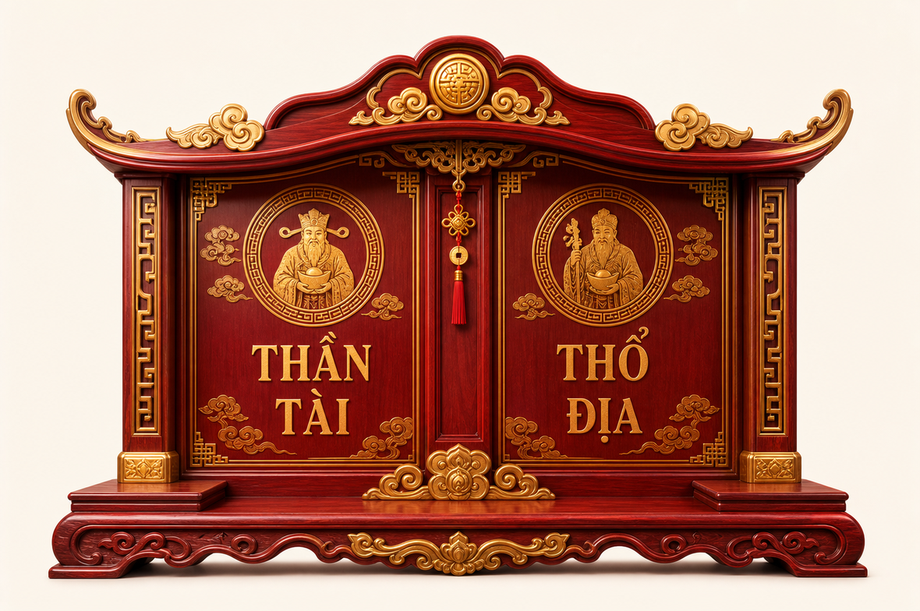
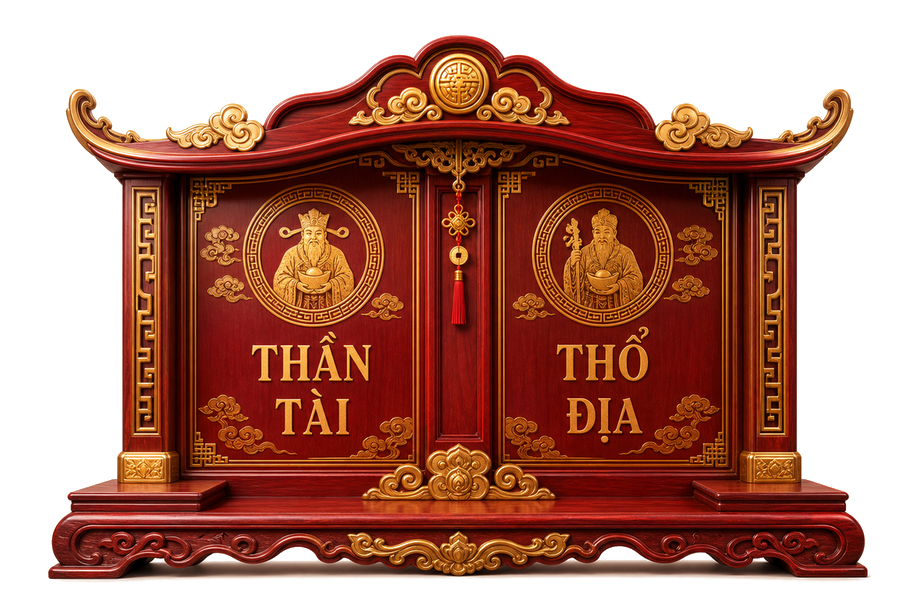
Improve incense altar and offerings flow

Changed region(s): [[0.0609, 0.9018, 0.9739, 0.964]]

diff --git a/assets/css/app.css b/assets/css/app.css
@@ -3995,7 +3995,7 @@ body[data-page="products"] .view.active {
 
 .incense-panel {
   display: grid;
-  grid-template-rows: minmax(170px, 0.8fr) auto;
+  grid-template-rows: auto auto;
   min-height: 0;
   overflow: hidden;
 }
@@ -4018,9 +4018,9 @@ body[data-page="products"] .view.active {
 .incense-altar {
   position: absolute;
   left: 50%;
-  top: 10px;
+  top: 8px;
   z-index: 0;
-  width: min(300px, 70%);
+  width: min(270px, 68%);
   height: auto;
   opacity: 0.9;
   border-radius: 18px;
@@ -4045,8 +4045,8 @@ body[data-page="products"] .view.active {
 .incense-bowl {
   position: relative;
   z-index: 5;
-  width: 94px;
-  height: 38px;
+  width: 68px;
+  height: 34px;
   background: linear-gradient(180deg, #ef4444, #991b1b);
   border: 1px solid rgba(127, 29, 29, 0.32);
   border-radius: 14px 14px 38px 38px;
@@ -4104,7 +4104,7 @@ body[data-page="products"] .view.active {
 .incense-sticks {
   position: absolute;
   z-index: 4;
-  bottom: 50px;
+  bottom: 46px;
   left: 50%;
   display: flex;
   gap: 5px;
@@ -4114,7 +4114,7 @@ body[data-page="products"] .view.active {
 .incense-sticks i {
   display: block;
   width: 3px;
-  height: 78px;
+  height: 72px;
   background: linear-gradient(180deg, #facc15 0 12px, #7c2d12 12px);
   border-radius: 99px;
   box-shadow: 0 0 0 rgba(251, 191, 36, 0);
@@ -4133,7 +4133,7 @@ body[data-page="products"] .view.active {
 .incense-smoke {
   position: absolute;
   z-index: 3;
-  bottom: 120px;
+  bottom: 112px;
   left: 50%;
   width: 62px;
   height: 118px;
@@ -4170,7 +4170,7 @@ body[data-page="products"] .view.active {
 .incense-spark {
   position: absolute;
   z-index: 6;
-  bottom: 120px;
+  bottom: 112px;
   left: 50%;
   width: 7px;
   height: 7px;
@@ -4229,6 +4229,57 @@ body[data-page="products"] .view.active {
 @keyframes monkeySwing {
   0%, 100% { transform: rotate(-17deg) translateY(0); }
   50% { transform: rotate(18deg) translateY(5px); }
+}
+
+.offering-tray {
+  position: absolute;
+  left: 50%;
+  bottom: 10px;
+  z-index: 6;
+  display: flex;
+  align-items: end;
+  justify-content: center;
+  gap: 5px;
+  width: min(220px, 68%);
+  min-height: 42px;
+  pointer-events: none;
+  opacity: 0;
+  transform: translate(-50%, 18px) scale(0.92);
+}
+
+.offering-tray.is-offered {
+  opacity: 1;
+  animation: offeringTrayIn 720ms cubic-bezier(.2, .8, .2, 1) both;
+}
+
+.offering-item {
+  display: grid;
+  place-items: center;
+  min-width: 42px;
+  min-height: 28px;
+  padding: 4px 7px;
+  color: #7c2d12;
+  font-size: 10px;
+  font-weight: 900;
+  line-height: 1.05;
+  text-align: center;
+  background: linear-gradient(180deg, #fff7ed, #fed7aa);
+  border: 1px solid rgba(180, 83, 9, 0.24);
+  border-radius: 999px 999px 12px 12px;
+  box-shadow: 0 8px 16px rgba(127, 29, 29, 0.14);
+  animation: offeringItemFloat 2.8s ease-in-out infinite;
+}
+
+.offering-item:nth-child(2) {
+  animation-delay: 0.25s;
+}
+
+.offering-item:nth-child(3) {
+  animation-delay: 0.5s;
+}
+
+.offering-item:nth-child(4) {
+  animation-delay: 0.75s;
 }
 
 @keyframes monkeyClimb {
@@ -4305,9 +4356,36 @@ body[data-page="products"] .view.active {
   }
 }
 
+@keyframes offeringTrayIn {
+  0% {
+    opacity: 0;
+    transform: translate(-50%, 28px) scale(0.82);
+  }
+
+  58% {
+    opacity: 1;
+    transform: translate(-50%, -4px) scale(1.04);
+  }
+
+  100% {
+    opacity: 1;
+    transform: translate(-50%, 0) scale(1);
+  }
+}
+
+@keyframes offeringItemFloat {
+  0%, 100% {
+    transform: translateY(0);
+  }
+
+  50% {
+    transform: translateY(-2px);
+  }
+}
+
 .incense-form {
   display: grid;
-  gap: 14px;
+  gap: 12px;
   padding: 18px;
 }
 
@@ -4351,6 +4429,38 @@ body[data-page="products"] .view.active {
   animation: incenseChoice 220ms ease-out;
 }
 
+.incense-offerings {
+  display: flex;
+  flex-wrap: wrap;
+  gap: 8px;
+  padding-bottom: 2px;
+}
+
+.incense-offerings button {
+  flex: 1 1 70px;
+  min-height: 36px;
+  padding: 0 10px;
+  color: var(--muted);
+  font: inherit;
+  font-weight: 800;
+  background: #f8fafc;
+  border: 1px solid var(--line);
+  border-radius: 999px;
+  cursor: pointer;
+  transition: transform 160ms ease, border-color 160ms ease, background 160ms ease, color 160ms ease;
+}
+
+.incense-offerings button:hover {
+  transform: translateY(-1px);
+  border-color: #fed7aa;
+}
+
+.incense-offerings button.active {
+  color: #9a3412;
+  background: #fff7ed;
+  border-color: #fdba74;
+}
+
 @keyframes incenseChoice {
   0% {
     transform: scale(0.97);
@@ -4372,6 +4482,8 @@ body[data-page="products"] .view.active {
   .incense-sticks i,
   .incense-smoke,
   .incense-spark,
+  .offering-tray.is-offered,
+  .offering-item,
   .incense-panel.just-lit .incense-scene::after,
   .incense-kind-grid button.active {
     animation: none;
@@ -6013,22 +6125,22 @@ body[data-page="orderCreate"] .summary-total strong {
   }
 
   .incense-scene {
-    min-height: 190px;
+    min-height: 186px;
     border-right: 0;
     border-bottom: 1px solid var(--line);
   }
 
   .incense-altar {
     top: 12px;
-    width: min(250px, 78%);
+    width: min(238px, 74%);
   }
 
   .incense-sticks {
-    bottom: 46px;
+    bottom: 44px;
   }
 
   .incense-sticks i {
-    height: 62px;
+    height: 58px;
   }
 
   .monkey {
@@ -6060,10 +6172,21 @@ body[data-page="orderCreate"] .summary-total strong {
   }
 
   .incense-smoke {
-    bottom: 102px;
+    bottom: 98px;
     width: 54px;
     height: 100px;
     border-left-width: 4px;
+  }
+
+  .offering-tray {
+    bottom: 8px;
+    width: min(210px, 76%);
+  }
+
+  .offering-item {
+    min-width: 38px;
+    min-height: 26px;
+    font-size: 9px;
   }
 
   .incense-kind-grid {
@@ -6072,6 +6195,12 @@ body[data-page="orderCreate"] .summary-total strong {
 
   .incense-kind-grid button {
     min-height: 46px;
+  }
+
+  .incense-offerings button {
+    flex-basis: 92px;
+    min-height: 34px;
+    padding-inline: 10px;
   }
 
   .incense-input-row {

diff --git a/assets/js/app.js b/assets/js/app.js
@@ -181,6 +181,8 @@
     teamPanelNote: qs("[data-team-panel-note]"),
     incenseForm: qs("[data-incense-form]"),
     incenseKind: qs("[data-incense-kind]"),
+    incenseOfferings: qs("[data-incense-offerings]"),
+    offeringTray: qs("[data-offering-tray]"),
     incenseWish: qs("[data-incense-wish]"),
     incenseHistory: qs("[data-incense-history]"),
     incenseResult: qs("[data-incense-result]"),
@@ -905,6 +907,9 @@
       actorId: item.actorId || "",
       actorName: item.actorName || "",
       actorEmail: item.actorEmail || "",
+      offerings: Array.isArray(item.offerings)
+        ? item.offerings
+        : String(item.offerings || "").split(",").map(value => value.trim()).filter(Boolean),
       createdAt: item.createdAt || ""
     };
   }
@@ -3399,6 +3404,36 @@
     team: ["Team", "Xin cả team nhẹ đầu."]
   };
 
+  const incenseOfferings = {
+    banana: "Chuối",
+    fruit: "Trái cây",
+    cake: "Bánh chay",
+    tea: "Trà",
+    water: "Nước",
+    flower: "Hoa"
+  };
+
+  function selectedIncenseOfferings() {
+    const selected = Array.from(document.querySelectorAll("[data-offering-choice].active"))
+      .map(button => button.dataset.offeringChoice)
+      .filter(key => Object.prototype.hasOwnProperty.call(incenseOfferings, key));
+    return selected.length ? selected : ["banana"];
+  }
+
+  function syncIncenseOfferings() {
+    if (els.incenseOfferings) {
+      els.incenseOfferings.value = selectedIncenseOfferings().join(",");
+    }
+  }
+
+  function renderOfferingTray(items) {
+    if (!els.offeringTray) return;
+    const selected = (items && items.length ? items : selectedIncenseOfferings()).slice(0, 4);
+    els.offeringTray.innerHTML = selected.map(key => `<span class="offering-item offering-${escapeAttribute(key)}">${escapeHtml(incenseOfferings[key] || key)}</span>`).join("");
+    els.offeringTray.classList.remove("is-offered");
+    window.requestAnimationFrame(() => els.offeringTray.classList.add("is-offered"));
+  }
+
   function renderIncense() {
     if (!els.incenseHistory) return;
     const wishes = (state.incenseWishes || []).map(normalizeIncenseWish)
@@ -3417,12 +3452,13 @@
     const button = form.querySelector("button[type='submit']");
     const data = Object.fromEntries(new FormData(form));
     const wish = String(data.wish || "").trim();
+    const offerings = selectedIncenseOfferings();
     if (!wish) throw new Error("Nhập một câu ngắn thôi nha.");
     setBusy(button, true, "Đang thắp...");
     try {
       const response = await apiRequest("/incense/create", {
         method: "POST",
-        body: JSON.stringify({ kind: data.kind || "sales", wish })
+        body: JSON.stringify({ kind: data.kind || "sales", wish, offerings })
       });
       state.incenseWishes = (response.incenseWishes || [response.incenseWish]).filter(Boolean).map(normalizeIncenseWish);
       window.ArtFlowPosStore.save(state);
@@ -3437,6 +3473,7 @@
         window.requestAnimationFrame(() => panel.classList.add("just-lit"));
         window.setTimeout(() => panel.classList.remove("just-lit"), 950);
       }
+      renderOfferingTray(offerings);
       renderIncense();
       showToast("Đã thắp một nén nhỏ.");
     } finally {
@@ -7276,6 +7313,13 @@
           const info = incenseKinds[kind] || incenseKinds.sales;
           els.incenseResult.textContent = info[1];
         }
+      }
+      if (target.matches("[data-offering-choice]")) {
+        target.classList.toggle("active");
+        if (!document.querySelector("[data-offering-choice].active")) {
+          target.classList.add("active");
+        }
+        syncIncenseOfferings();
       }
       if (target.matches("[data-reset-product-filters]")) {
         Object.assign(productFilters, { category: "all", status: "all", stock: "all", margin: "all", content: "all", assets: "all", sort: "name", preset: "all" });

diff --git a/pages/incense.html b/pages/incense.html
@@ -39,6 +39,7 @@
             <span class="incense-spark spark-two"></span>
             <span class="incense-spark spark-three"></span>
             <div class="incense-sticks"><i></i><i></i><i></i></div>
+            <div class="offering-tray" data-offering-tray></div>
             <div class="monkey-troupe">
               <img class="monkey monkey-swing" src="../assets/images/chibi-monkey.png" alt="" />
               <img class="monkey monkey-climb" src="../assets/images/chibi-monkey.png" alt="" />
@@ -49,6 +50,7 @@
           </div>
           <form class="incense-form" data-incense-form>
             <input type="hidden" name="kind" value="sales" data-incense-kind />
+            <input type="hidden" name="offerings" value="banana" data-incense-offerings />
             <div class="incense-kind-grid" aria-label="Chọn điều muốn xin vía">
               <button class="active" type="button" data-incense-kind-choice="sales"><span data-icon="shoppingCart"></span><b>Đơn</b></button>
               <button type="button" data-incense-kind-choice="content"><span data-icon="sparkles"></span><b>Content</b></button>
@@ -56,6 +58,14 @@
               <button type="button" data-incense-kind-choice="cash"><span data-icon="wallet"></span><b>Tiền</b></button>
               <button type="button" data-incense-kind-choice="bug"><span data-icon="settings"></span><b>Bug</b></button>
               <button type="button" data-incense-kind-choice="team"><span data-icon="users"></span><b>Team</b></button>
+            </div>
+            <div class="incense-offerings" aria-label="Chọn đồ cúng chay">
+              <button class="active" type="button" data-offering-choice="banana"><span>Chuối</span></button>
+              <button type="button" data-offering-choice="fruit"><span>Trái cây</span></button>
+              <button type="button" data-offering-choice="cake"><span>Bánh chay</span></button>
+              <button type="button" data-offering-choice="tea"><span>Trà</span></button>
+              <button type="button" data-offering-choice="water"><span>Nước</span></button>
+              <button type="button" data-offering-choice="flower"><span>Hoa</span></button>
             </div>
             <label class="incense-input-row">
               <span data-icon="edit"></span>